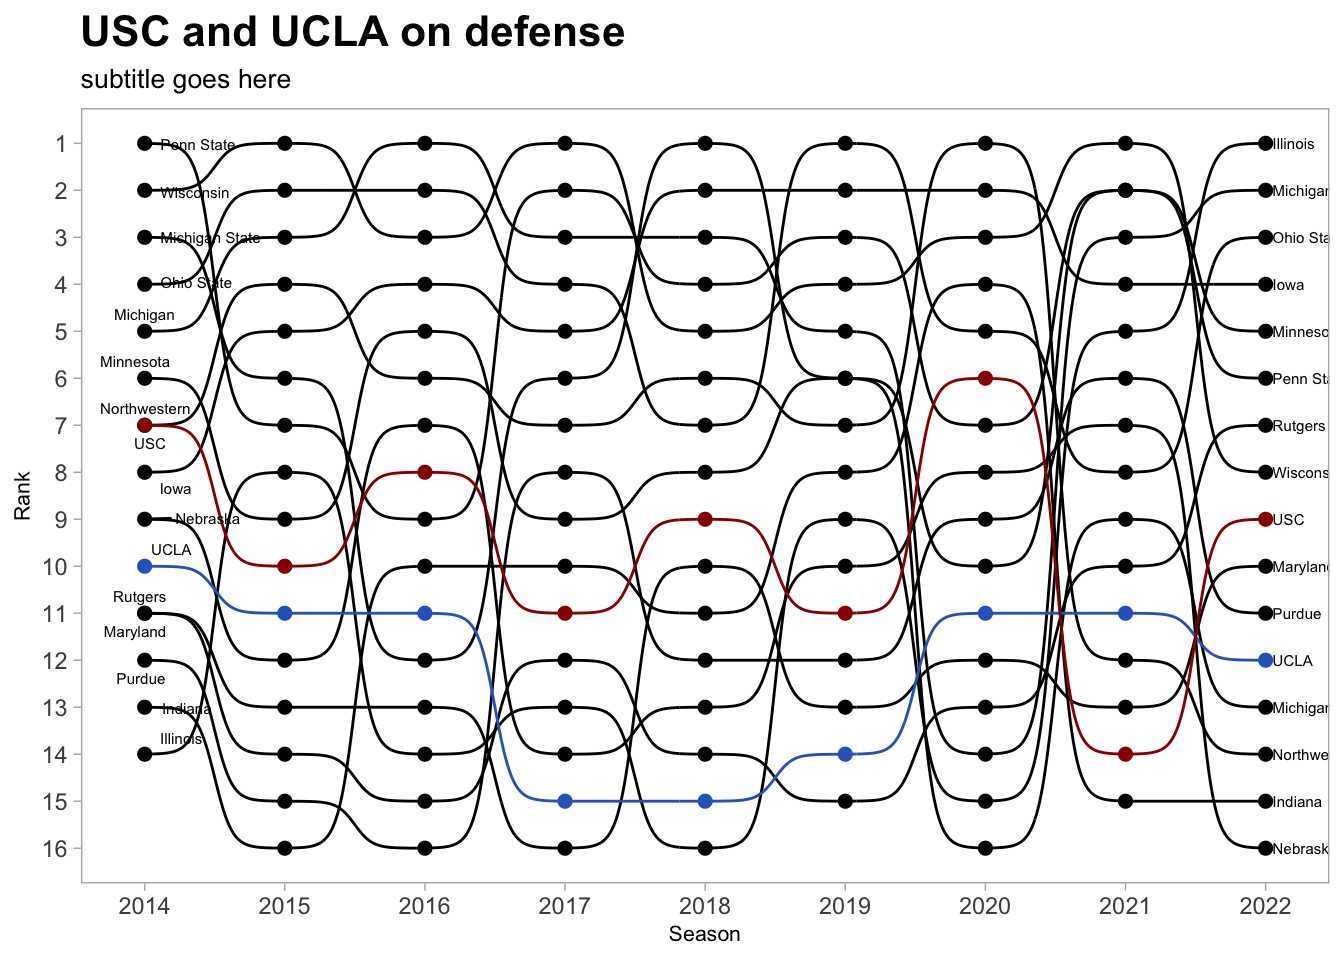
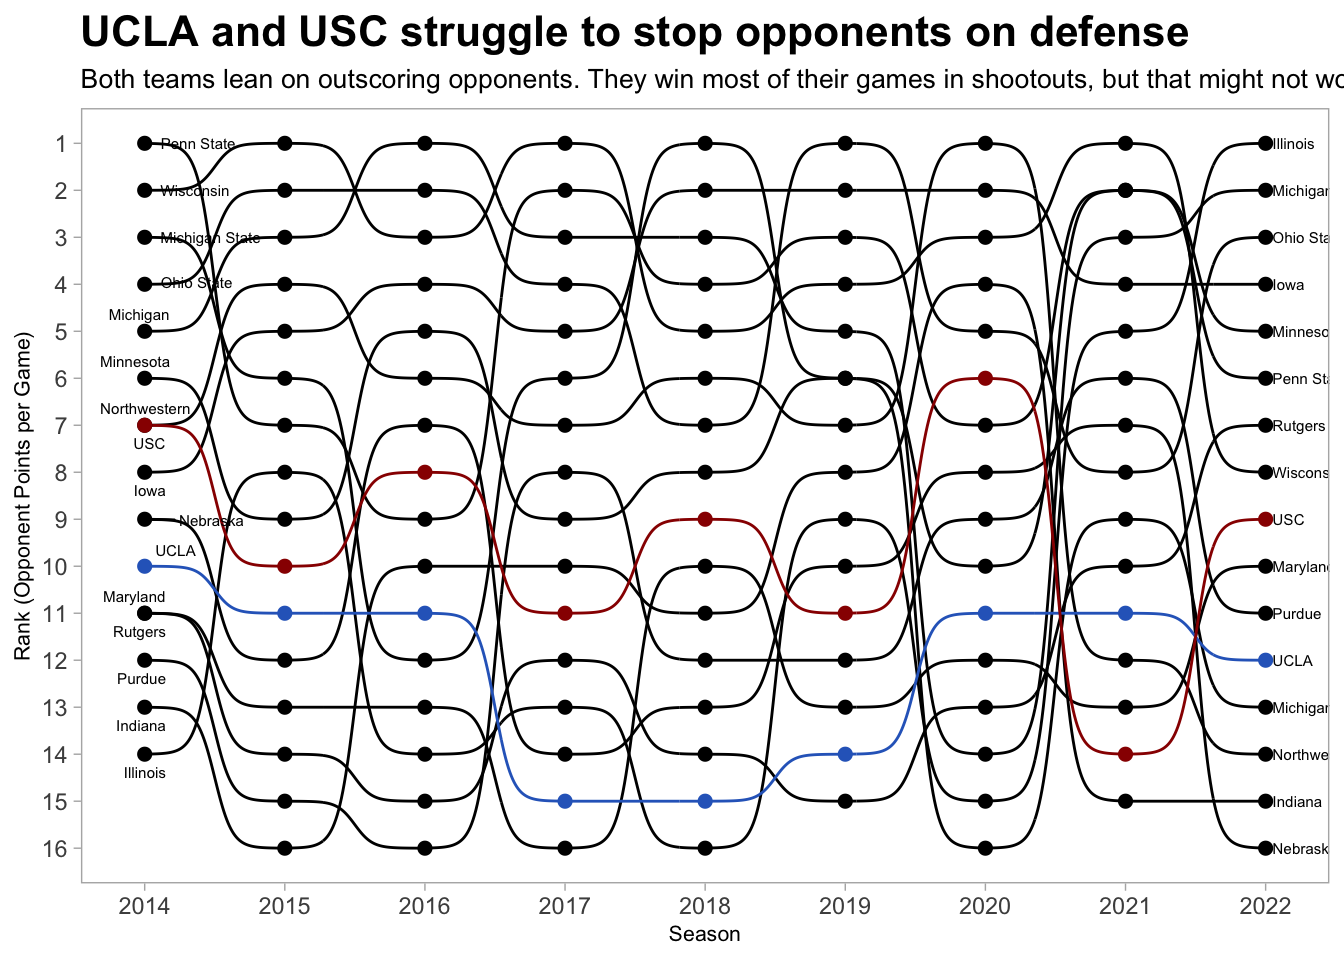
me

diff --git a/posts/ucla-and-usc-meet-big-ten-style-football/index.html b/posts/ucla-and-usc-meet-big-ten-style-football/index.html
@@ -167,7 +167,7 @@ code span.wa { color: #60a0b0; font-weight: bold; font-style: italic; } /* Warni
 <header id="title-block-header" class="quarto-title-block default page-columns page-full">
   <div class="quarto-title-banner page-columns page-full">
     <div class="quarto-title column-body">
-      <h1 class="title">How will new additions UCLA and USC fare in the old school Big Ten Conference?</h1>
+      <h1 class="title">How will new additions UCLA and USC fare in the old-school Big Ten Conference?</h1>
                                 <div class="quarto-categories">
                 <div class="quarto-category">B1G</div>
                 <div class="quarto-category">code</div>
@@ -207,10 +207,10 @@ code span.wa { color: #60a0b0; font-weight: bold; font-style: italic; } /* Warni
 
 
 <p>The Big Ten is an old-school football conference built on close, hard-nosed games full of tough defense and running the damn ball.</p>
-<p>Or, at least that’s what stereotypes say within college football circles. But, there does lie merit behind these stereotypes. That begs the question of how UCLA and USC, who are slated to join the Big Ten in 2024, will fare in conference play. The No.&nbsp;10 USC Trojans are reaping the benefits of first year head coach Lincoln Riley and Oklahoma transfer quarterback Caleb Williams while the No.&nbsp;12 UCLA Bruins are seeing head coach Chip Kelly’s program revival finally come to life. Will these two teams be able to maintain success upon joining the Big Ten?</p>
+<p>Or, at least that’s what stereotypes say within college football circles. But, there does lie merit behind these stereotypes. That begs the question of how UCLA and USC, who are slated to join the Big Ten in 2024, will fare in conference play. The No.&nbsp;10 USC Trojans are reaping the benefits of new head coach Lincoln Riley and Oklahoma transfer quarterback Caleb Williams while the No.&nbsp;12 UCLA Bruins are seeing head coach Chip Kelly’s program revival finally come to life. Will these two teams be able to maintain success upon joining the Big Ten?</p>
 <p>Entering the 2022 college football season, the Big Ten had the lowest average total points per conference game (52.5) of any FBS conference since 2014. Meanwhile, the Pac-12 averaged a full touchdown and extra point more (59.5), coming in as the second-highest scoring power five conference on average. Big Ten games also see a much slower pace of play than Pac-12 games.</p>
-<p>So, it’s not crazy to say a west coast Pac-12 team might struggle in a snowy, midday matchup against a traditional Big Ten powerhouse. Let’s take a look at some numbers to see how these showdowns will go for UCLA and USC.</p>
-<p>Let’s pretend UCLA and USC are in the Big Ten this season for the sake of comparison. How would their rushing offenses and defenses compare to the rest of the conference through seven games?</p>
+<p>So, it’s not crazy to say a west coast Pac-12 team might struggle in a snowy, midday matchup against an experienced Big Ten squad. Let’s take a look at some numbers to see how these showdowns will go for UCLA and USC.</p>
+<p>If we pretend UCLA and USC are in the Big Ten this season for the sake of comparison, how would their rushing offenses and defenses measure up to the rest of the conference through seven games?</p>
 <div class="cell">
 <details>
 <summary>Code</summary>
@@ -281,7 +281,7 @@ code span.wa { color: #60a0b0; font-weight: bold; font-style: italic; } /* Warni
 <span id="cb1-65"><a href="#cb1-65" aria-hidden="true" tabindex="-1"></a>  <span class="fu">geom_bar</span>(<span class="at">data=</span>uclaOff, <span class="fu">aes</span>(<span class="at">x=</span><span class="fu">reorder</span>(School, RushYds), <span class="at">weight=</span>RushYds), <span class="at">fill=</span><span class="st">"#2D68C4"</span>) <span class="sc">+</span></span>
 <span id="cb1-66"><a href="#cb1-66" aria-hidden="true" tabindex="-1"></a>  <span class="fu">geom_bar</span>(<span class="at">data=</span>uscOff, <span class="fu">aes</span>(<span class="at">x=</span><span class="fu">reorder</span>(School, RushYds), <span class="at">weight=</span>RushYds), <span class="at">fill=</span><span class="st">"#990000"</span>) <span class="sc">+</span></span>
 <span id="cb1-67"><a href="#cb1-67" aria-hidden="true" tabindex="-1"></a>  <span class="fu">coord_flip</span>() <span class="sc">+</span> </span>
-<span id="cb1-68"><a href="#cb1-68" aria-hidden="true" tabindex="-1"></a>  <span class="fu">labs</span>(<span class="at">title=</span><span class="st">"UCLA and USC can run... "</span>, <span class="at">subtitle =</span> <span class="st">"Both teams are in the top half of Big Ten rushing offenses."</span>,  <span class="at">x=</span><span class="st">""</span>, <span class="at">y=</span><span class="st">"Rush yards per game"</span>, <span class="at">caption =</span> <span class="st">""</span>) <span class="sc">+</span> </span>
+<span id="cb1-68"><a href="#cb1-68" aria-hidden="true" tabindex="-1"></a>  <span class="fu">labs</span>(<span class="at">title=</span><span class="st">"UCLA and USC can run... "</span>, <span class="at">subtitle =</span> <span class="st">"Both teams are in the top half of Big Ten rushing offenses."</span>,  <span class="at">x=</span><span class="st">""</span>, <span class="at">y=</span><span class="st">"Rush Yards per Game"</span>, <span class="at">caption =</span> <span class="st">""</span>) <span class="sc">+</span> </span>
 <span id="cb1-69"><a href="#cb1-69" aria-hidden="true" tabindex="-1"></a>  <span class="fu">theme_light</span>() <span class="sc">+</span> </span>
 <span id="cb1-70"><a href="#cb1-70" aria-hidden="true" tabindex="-1"></a>  <span class="fu">theme</span>(</span>
 <span id="cb1-71"><a href="#cb1-71" aria-hidden="true" tabindex="-1"></a>     <span class="at">plot.title =</span> <span class="fu">element_text</span>(<span class="at">size =</span> <span class="dv">14</span>, <span class="at">face =</span> <span class="st">"bold"</span>),</span>
@@ -295,11 +295,11 @@ code span.wa { color: #60a0b0; font-weight: bold; font-style: italic; } /* Warni
 <span id="cb1-79"><a href="#cb1-79" aria-hidden="true" tabindex="-1"></a>uclaDef <span class="ot">&lt;-</span> bigtendefense22 <span class="sc">%&gt;%</span> <span class="fu">filter</span>(School <span class="sc">==</span> <span class="st">"UCLA"</span>)</span>
 <span id="cb1-80"><a href="#cb1-80" aria-hidden="true" tabindex="-1"></a></span>
 <span id="cb1-81"><a href="#cb1-81" aria-hidden="true" tabindex="-1"></a>bar2 <span class="ot">&lt;-</span> <span class="fu">ggplot</span>() <span class="sc">+</span> </span>
-<span id="cb1-82"><a href="#cb1-82" aria-hidden="true" tabindex="-1"></a>  <span class="fu">geom_bar</span>(<span class="at">data=</span>bigtendefense22, <span class="fu">aes</span>(<span class="at">x=</span><span class="fu">reorder</span>(School, OppRushYds), <span class="at">weight=</span>OppRushYds), <span class="at">fill=</span><span class="st">"grey"</span>) <span class="sc">+</span></span>
-<span id="cb1-83"><a href="#cb1-83" aria-hidden="true" tabindex="-1"></a>  <span class="fu">geom_bar</span>(<span class="at">data=</span>uclaDef, <span class="fu">aes</span>(<span class="at">x=</span><span class="fu">reorder</span>(School, OppRushYds), <span class="at">weight=</span>OppRushYds), <span class="at">fill=</span><span class="st">"#2D68C4"</span>) <span class="sc">+</span></span>
-<span id="cb1-84"><a href="#cb1-84" aria-hidden="true" tabindex="-1"></a>  <span class="fu">geom_bar</span>(<span class="at">data=</span>uscDef, <span class="fu">aes</span>(<span class="at">x=</span><span class="fu">reorder</span>(School, OppRushYds), <span class="at">weight=</span>OppRushYds), <span class="at">fill=</span><span class="st">"#990000"</span>) <span class="sc">+</span></span>
+<span id="cb1-82"><a href="#cb1-82" aria-hidden="true" tabindex="-1"></a>  <span class="fu">geom_bar</span>(<span class="at">data=</span>bigtendefense22, <span class="fu">aes</span>(<span class="at">x=</span><span class="fu">reorder</span>(School, <span class="fu">desc</span>(OppRushYds)), <span class="at">weight=</span>OppRushYds), <span class="at">fill=</span><span class="st">"grey"</span>) <span class="sc">+</span></span>
+<span id="cb1-83"><a href="#cb1-83" aria-hidden="true" tabindex="-1"></a>  <span class="fu">geom_bar</span>(<span class="at">data=</span>uclaDef, <span class="fu">aes</span>(<span class="at">x=</span><span class="fu">reorder</span>(School, <span class="fu">desc</span>(OppRushYds)), <span class="at">weight=</span>OppRushYds), <span class="at">fill=</span><span class="st">"#2D68C4"</span>) <span class="sc">+</span></span>
+<span id="cb1-84"><a href="#cb1-84" aria-hidden="true" tabindex="-1"></a>  <span class="fu">geom_bar</span>(<span class="at">data=</span>uscDef, <span class="fu">aes</span>(<span class="at">x=</span><span class="fu">reorder</span>(School, <span class="fu">desc</span>(OppRushYds)), <span class="at">weight=</span>OppRushYds), <span class="at">fill=</span><span class="st">"#990000"</span>) <span class="sc">+</span></span>
 <span id="cb1-85"><a href="#cb1-85" aria-hidden="true" tabindex="-1"></a>  <span class="fu">coord_flip</span>() <span class="sc">+</span>  </span>
-<span id="cb1-86"><a href="#cb1-86" aria-hidden="true" tabindex="-1"></a>  <span class="fu">labs</span>(<span class="at">title =</span> <span class="st">"...but they may struggle to defend it"</span>, <span class="at">subtitle=</span> <span class="st">"But, they land in the bottom half defending the run."</span>, <span class="at">x=</span><span class="st">""</span>, <span class="at">y=</span><span class="st">"Opponent rush yards per game"</span>,  <span class="at">caption=</span><span class="st">"Source: Sports Reference | By Ryan Kenney"</span>) <span class="sc">+</span> </span>
+<span id="cb1-86"><a href="#cb1-86" aria-hidden="true" tabindex="-1"></a>  <span class="fu">labs</span>(<span class="at">title =</span> <span class="st">"...but they may struggle to defend it"</span>, <span class="at">subtitle=</span> <span class="st">"But, they land in the bottom half defending the run."</span>, <span class="at">x=</span><span class="st">""</span>, <span class="at">y=</span><span class="st">"Opponent Rush Yards per Game"</span>,  <span class="at">caption=</span><span class="st">"Source: Sports Reference | By Ryan Kenney"</span>) <span class="sc">+</span> </span>
 <span id="cb1-87"><a href="#cb1-87" aria-hidden="true" tabindex="-1"></a>  <span class="fu">theme_light</span>() <span class="sc">+</span> </span>
 <span id="cb1-88"><a href="#cb1-88" aria-hidden="true" tabindex="-1"></a>  <span class="fu">theme</span>(</span>
 <span id="cb1-89"><a href="#cb1-89" aria-hidden="true" tabindex="-1"></a>   <span class="at">plot.title =</span> <span class="fu">element_text</span>(<span class="at">size =</span> <span class="dv">14</span>, <span class="at">face =</span> <span class="st">"bold"</span>),</span>
@@ -344,7 +344,7 @@ code span.wa { color: #60a0b0; font-weight: bold; font-style: italic; } /* Warni
 <span id="cb2-20"><a href="#cb2-20" aria-hidden="true" tabindex="-1"></a>  </span>
 <span id="cb2-21"><a href="#cb2-21" aria-hidden="true" tabindex="-1"></a>  <span class="fu">scale_y_reverse</span>(<span class="at">breaks=</span><span class="fu">c</span>(<span class="dv">1</span>,<span class="dv">2</span>,<span class="dv">3</span>,<span class="dv">4</span>,<span class="dv">5</span>,<span class="dv">6</span>,<span class="dv">7</span>,<span class="dv">8</span>,<span class="dv">9</span>,<span class="dv">10</span>,<span class="dv">11</span>,<span class="dv">12</span>,<span class="dv">13</span>,<span class="dv">14</span>,<span class="dv">15</span>,<span class="dv">16</span>)) <span class="sc">+</span></span>
 <span id="cb2-22"><a href="#cb2-22" aria-hidden="true" tabindex="-1"></a>  </span>
-<span id="cb2-23"><a href="#cb2-23" aria-hidden="true" tabindex="-1"></a>  <span class="fu">labs</span>(<span class="at">title =</span> <span class="st">"USC and UCLA on defense"</span>, <span class="at">subtitle=</span><span class="st">"subtitle goes here"</span>, <span class="at">y=</span><span class="st">"Rank"</span>, <span class="at">x=</span><span class="st">"Season"</span>) <span class="sc">+</span></span>
+<span id="cb2-23"><a href="#cb2-23" aria-hidden="true" tabindex="-1"></a>  <span class="fu">labs</span>(<span class="at">title =</span> <span class="st">"UCLA and USC struggle to stop opponents on defense "</span>, <span class="at">subtitle=</span><span class="st">"Both teams lean on outscoring opponents. They win most of their games in shootouts, but that might not work against some of the stifling Big Ten defenses."</span>, <span class="at">y=</span><span class="st">"Rank (Opponent Points per Game)"</span>, <span class="at">x=</span><span class="st">"Season"</span>) <span class="sc">+</span></span>
 <span id="cb2-24"><a href="#cb2-24" aria-hidden="true" tabindex="-1"></a>  </span>
 <span id="cb2-25"><a href="#cb2-25" aria-hidden="true" tabindex="-1"></a><span class="fu">theme_light</span>()<span class="sc">+</span></span>
 <span id="cb2-26"><a href="#cb2-26" aria-hidden="true" tabindex="-1"></a> <span class="fu">theme</span>(</span>
@@ -361,7 +361,7 @@ code span.wa { color: #60a0b0; font-weight: bold; font-style: italic; } /* Warni
 </div>
 </div>
 <p>Not too great. UCLA consistently hangs out with the Big Ten defenses that give up the most points per game. USC isn’t much better, peaking at sixth-best in 2020 before plummeting to the second-worst in 2021.</p>
-<p>It’s not looking as promising for the newcomers anymore. Plus, many argue the Pac-12 is a step down in competition, so these aren’t even fair comparisons in the first place. Pac-12 teams have struggled to take the leap into elite territory. Only one team from the conference has made the College Football Playoff since its start, and it was the Oregon Ducks in the the Playoff’s first year (2014). Ironically, the Ducks fell in a 22-point loss to the Big Ten’s very own Ohio State Buckeyes.</p>
+<p>All of a sudden, it’s not looking as promising for the newcomers. Plus, many argue the Pac-12 is a step down in competition, so these aren’t even fair comparisons in the first place. Pac-12 teams have struggled to take the leap into elite territory. Only one team from the conference has made the College Football Playoff since its start, and it was the Oregon Ducks in the the Playoff’s first year (2014). Ironically, the Ducks fell in a 22-point loss to the Big Ten’s very own Ohio State Buckeyes.</p>
 <p>Is this competition gap still the case in 2022? Sports Reference gives us strength of schedule and simple rating data. Simple rating takes into account both strength of schedule and average point differential, meaning teams are rewarded for playing tough opponents, winning handily and, if they do lose, putting up a close fight.</p>
 <div class="cell">
 <details>
@@ -418,11 +418,11 @@ code span.wa { color: #60a0b0; font-weight: bold; font-style: italic; } /* Warni
 <p><img src="index_files/figure-html/unnamed-chunk-3-1.png" class="img-fluid" width="672"></p>
 </div>
 </div>
-<p>Well well well. Both UCLA and USC find themselves with an above-average simple rating in the Big Ten. The Trojans take it a step further, boasting a 6-1 record despite having the strongest schedule in the conference. Several Pac-12 teams, including No.&nbsp;8 Oregon and No.&nbsp;14 Utah are having successful years, thus giving UCLA and USC worthy competition.</p>
+<p>Well, well, well. Both UCLA and USC find themselves with an above-average simple rating in the Big Ten. The Trojans take it a step further, boasting a 6-1 record despite having the strongest schedule in the conference. Several Pac-12 teams, including No.&nbsp;8 Oregon and No.&nbsp;14 Utah are having successful years, thus giving UCLA and USC worthy competition.</p>
 <p>UCLA and USC have arguably their strongest squads in years in 2022. Both teams are sitting with six wins and only one loss, having proved themselves against competent opponents. Thus, it’s hard to argue that entering a Big Ten schedule will come as too much of a shock.</p>
 <p>However, the style of football played in the Big Ten will take some getting used to. The Bruins and Trojans will face tougher defenses than ever before upon entering the conference, and their relative subpar rushing defenses will be tested by the strong rushing attacks of most Big Ten teams.</p>
 <p>Both teams will be competitive in the conference early on, but they’ll likely have some work to do before they’re knocking off the powerhouses like Ohio State and Michigan.</p>
-<p>As for that snowy, slow-paced matchup on the road against an average Big Ten team? Don’t be surprised if UCLA and USC fall short in a few of these games early on in their Big Ten careers.</p>
+<p>As for that snowy, slow-paced matchup on the road against an average Big Ten team? Don’t be surprised if UCLA and USC fall short and get upset in a few of those games early on in their Big Ten careers.</p>
 
 
 
